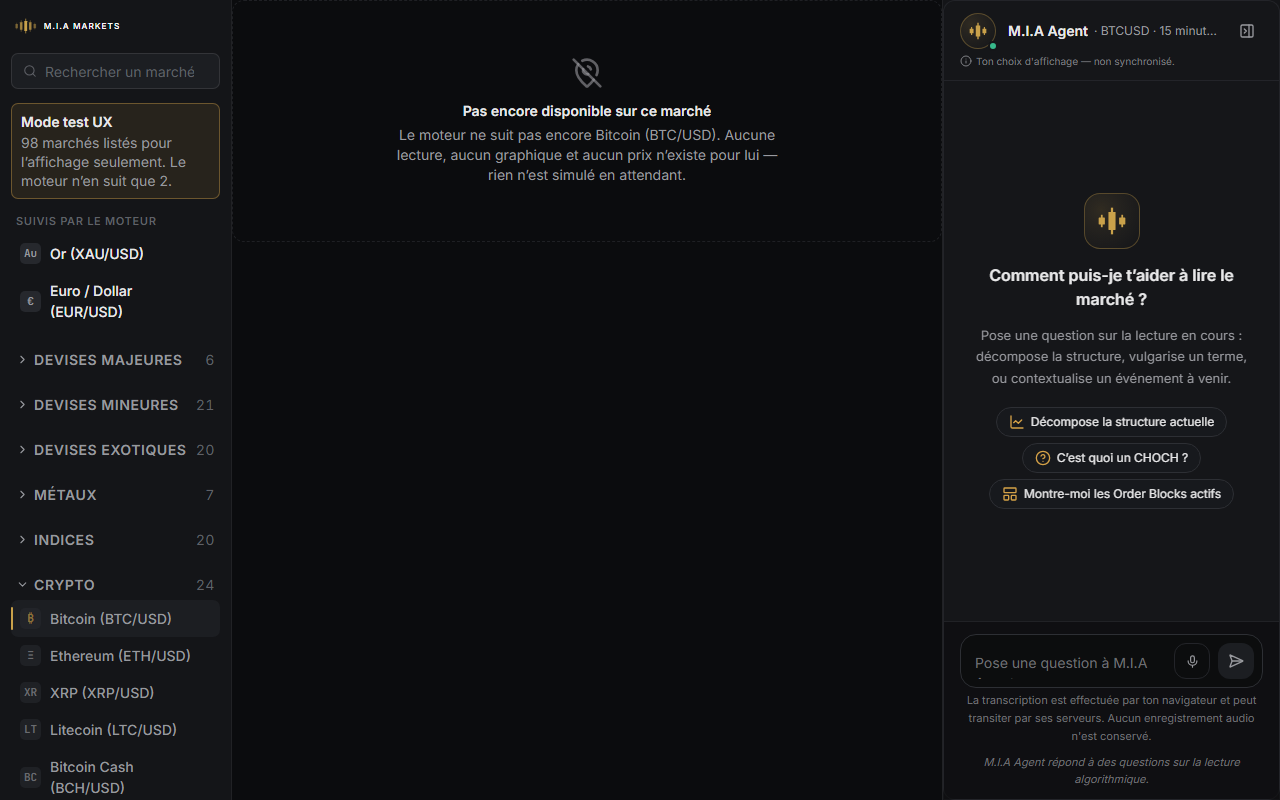
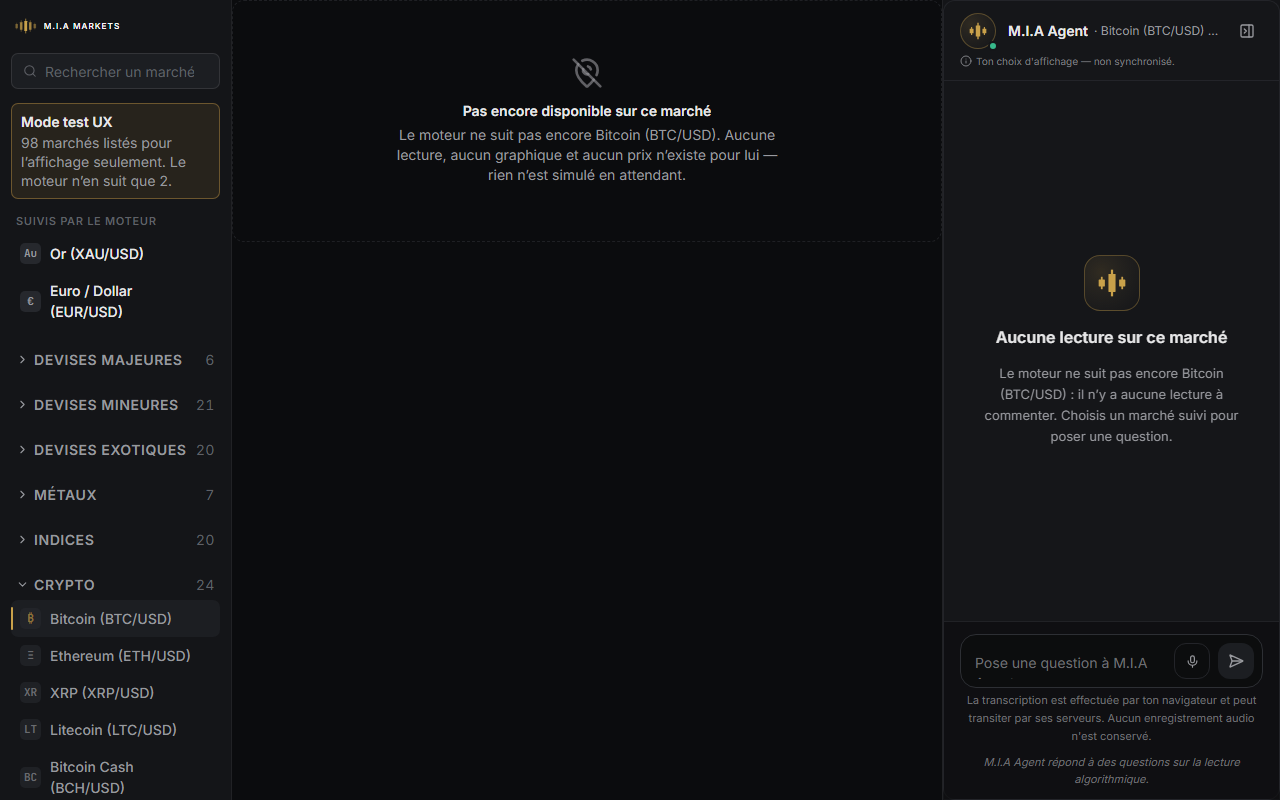
fix(mkt-1b): M.I.A n'offre plus d'analyser un marché sans donnée + garde CI réparé
Deux corrections de suivi de MKT-1, signalées au rapport et arbitrées « corrige ».

1) M.I.A proposait d'analyser un marché non couvert
La capture etat-vide-desktop.png montrait l'incohérence : la colonne centrale
disait honnêtement « Pas encore disponible sur ce marché » pendant que le panneau
M.I.A affichait « BTCUSD » et proposait « Décompose la structure actuelle » et
« Montre-moi les Order Blocks actifs ». M.I.A ne pouvait rien inventer (le
backend ignore ce marché), mais la suggestion invitait à poser une question sur
une donnée inexistante — la dishonnêteté que l'état vide existe pour éviter.

Corrigé dans AppChatSidebar UNIQUEMENT : MiaPanel n'est pas touché, donc aucun
conflit avec les missions MIA-* en cours. Réutilise le motif déjà en place
(starters={active ? STARTERS : []}) en traitant un marché du catalogue comme un
contexte non analysable : aucune question suggérée, et un accueil qui dit
pourquoi (« Aucune lecture sur ce marché »). Le marché est nommé par son libellé
humain jusque dans l'en-tête (« Bitcoin (BTC/USD) », plus le ticker brut).
6 tests, dont 2 garde-fous de portée : un marché SUIVI garde ses questions, et
l'absence de combo se comporte comme avant. 2 clés × 9 locales.

2) gen_markets.mjs --check réparé (bug PRÉ-EXISTANT)
Ce garde CI était inopérant sur tout checkout Windows : le script émet du LF, le
dépôt checkoute en CRLF (core.autocrlf=true), et la comparaison était faite octet
[…]

Changed region(s): [[0.75, 0.25, 0.9688, 0.625], [0.875, 0.0312, 0.9375, 0.0625]]

diff --git a/webapp/components/app/__tests__/mkt1b-mia-not-covered.test.tsx b/webapp/components/app/__tests__/mkt1b-mia-not-covered.test.tsx
@@ -1,0 +1,66 @@
+import { render, screen } from '@/components/test-utils';
+import { describe, expect, it, vi } from 'vitest';
+import { ChatProvider } from '@/components/chat/ChatProvider';
+
+/**
+ * MKT-1b — M.I.A must not offer to analyse a market that has no data.
+ *
+ * Found by eye on the MKT-1 Playwright capture: while the centre column
+ * honestly said « Pas encore disponible sur ce marché », the M.I.A panel still
+ * proposed « Décompose la structure actuelle » and « Montre-moi les Order Blocks
+ * actifs » for that same market. M.I.A could not have invented anything (the
+ * backend does not know the market), but the suggestions invited a question
+ * about data that does not exist — the dishonesty the empty state exists to
+ * avoid.
+ *
+ * The flag is stubbed BEFORE the dynamic imports so the real gate is exercised.
+ */
+vi.stubEnv('NEXT_PUBLIC_SHOW_MARKET_CATALOG_UX_TEST', '1');
+
+const { AppChatSidebar } = await import('@/components/app/AppChatSidebar');
+const { isCatalogOnly } = await import('@/lib/market-catalog');
+
+function renderSidebar(combo: { instrument: string; timeframe: string } | null) {
+  return render(
+    <ChatProvider>
+      <AppChatSidebar active={combo} />
+    </ChatProvider>,
+  );
+}
+
+describe('MKT-1b — M.I.A on an uncovered market', () => {
+  it('the fixture really is a catalogue-only market (guards the premise)', () => {
+    expect(isCatalogOnly('BTCUSD')).toBe(true);
+    expect(isCatalogOnly('XAUUSD')).toBe(false);
+  });
+
+  it('offers NO starter question — nothing to analyse, nothing to propose', () => {
+    renderSidebar({ instrument: 'BTCUSD', timeframe: 'M15' });
+    expect(screen.queryByText(/Décompose la structure actuelle/)).not.toBeInTheDocument();
+    expect(screen.queryByText(/Order Blocks actifs/)).not.toBeInTheDocument();
+    expect(screen.queryByText(/C'est quoi un CHOCH/)).not.toBeInTheDocument();
+  });
+
+  it('says why, naming the market by its human label', () => {
+    renderSidebar({ instrument: 'BTCUSD', timeframe: 'M15' });
+    expect(screen.getByText('Aucune lecture sur ce marché')).toBeInTheDocument();
+    expect(screen.getByText(/Le moteur ne suit pas encore Bitcoin \(BTC\/USD\)/)).toBeInTheDocument();
+  });
+
+  it('names the market in the header by its label, not a raw ticker', () => {
+    const { container } = renderSidebar({ instrument: 'BTCUSD', timeframe: 'M15' });
+    expect(container.textContent).toContain('Bitcoin (BTC/USD)');
+  });
+
+  it('a FOLLOWED market keeps its starter questions — the guard is narrow', () => {
+    renderSidebar({ instrument: 'XAUUSD', timeframe: 'M15' });
+    expect(screen.getByText(/Décompose la structure actuelle/)).toBeInTheDocument();
+    expect(screen.queryByText('Aucune lecture sur ce marché')).not.toBeInTheDocument();
+  });
+
+  it('no combo at all still behaves as before (idle welcome, no starters)', () => {
+    renderSidebar(null);
+    expect(screen.queryByText(/Décompose la structure actuelle/)).not.toBeInTheDocument();
+    expect(screen.queryByText('Aucune lecture sur ce marché')).not.toBeInTheDocument();
+  });
+});

diff --git a/webapp/components/app/AppChatSidebar.tsx b/webapp/components/app/AppChatSidebar.tsx
@@ -22,6 +22,7 @@ import {
   TooltipTrigger,
 } from '@/components/ui/tooltip';
 import { formatInstrument, formatTimeframe } from '@/lib/market-reading/formatters';
+import { catalogLabel, isCatalogOnly } from '@/lib/market-catalog';
 import type { Combo } from '@/lib/market-reading/store';
 
 /** Icons for the on-brand starter questions (text is localized in-component). */
@@ -63,8 +64,15 @@ export function AppChatSidebar({
     icon: s.icon,
   }));
 
+  // MKT-1 — a market from the UX-test catalogue has NO reading behind it, so
+  // M.I.A has nothing to comment on. Offering « Décompose la structure actuelle »
+  // there would invite a question about data that does not exist — the same
+  // dishonesty the empty state exists to avoid. Treated like "no combo picked":
+  // no starters, and a subtitle that says why. (Flag off → always false.)
+  const notCovered = isCatalogOnly(active?.instrument);
+
   const contextLabel = active
-    ? `· ${formatInstrument(active.instrument)} · ${formatTimeframe(active.timeframe)}`
+    ? `· ${notCovered ? catalogLabel(active.instrument) : formatInstrument(active.instrument)} · ${formatTimeframe(active.timeframe)}`
     : `· ${t('chat.pickComboPrompt')}`;
 
   const headerActions = (
@@ -142,11 +150,23 @@ export function AppChatSidebar({
       contextLabel={contextLabel}
       headerActions={headerActions}
       statusLine={statusLine}
-      welcomeTitle={active ? t('chat.welcomeTitleActive') : t('chat.welcomeTitleIdle')}
-      welcomeSubtitle={
-        active ? t('chat.welcomeSubtitleActive') : t('chat.welcomeSubtitleIdle')
+      welcomeTitle={
+        notCovered
+          ? t('chat.welcomeTitleNotCovered')
+          : active
+            ? t('chat.welcomeTitleActive')
+            : t('chat.welcomeTitleIdle')
       }
-      starters={active ? STARTERS : []}
+      welcomeSubtitle={
+        notCovered
+          ? t('chat.welcomeSubtitleNotCovered', {
+              market: catalogLabel(active?.instrument ?? ''),
+            })
+          : active
+            ? t('chat.welcomeSubtitleActive')
+            : t('chat.welcomeSubtitleIdle')
+      }
+      starters={active && !notCovered ? STARTERS : []}
       offlineNote={t('chat.offlineNote')}
       complianceLine={t('chat.complianceLine')}
     />

diff --git a/docs/audits/AUDIT-mkt-1-frontend-100.md b/docs/audits/AUDIT-mkt-1-frontend-100.md
@@ -234,6 +234,43 @@ cette fonctionnalité aurait été livrée cassée avec une suite unitaire verte
 
 ---
 
+## 7 ter. MKT-1b — les deux corrections de suivi (PR séparée)
+
+### M.I.A n'offre plus d'analyser un marché sans donnée
+
+La capture `etat-vide-desktop.png` a révélé une incohérence : pendant que la
+colonne centrale disait honnêtement « Pas encore disponible sur ce marché », le
+panneau M.I.A affichait « BTCUSD » et proposait *« Décompose la structure
+actuelle »* et *« Montre-moi les Order Blocks actifs »*. M.I.A ne pouvait rien
+inventer (le backend ignore ce marché), mais **la suggestion invitait à poser une
+question sur une donnée inexistante** — la dishonnêteté même que l'état vide
+existe pour éviter.
+
+Correctif dans `AppChatSidebar` **uniquement** — `MiaPanel` n'est pas touché,
+donc aucun conflit avec les missions MIA-* en cours. Il réutilise le motif déjà
+en place (`starters={active ? STARTERS : []}`) en traitant un marché du catalogue
+comme un contexte non analysable :
+
+> **Aucune lecture sur ce marché**
+> Le moteur ne suit pas encore **Bitcoin (BTC/USD)** : il n'y a aucune lecture à
+> commenter. Choisis un marché suivi pour poser une question.
+
+Le marché est nommé par son libellé humain jusque dans l'en-tête du panneau
+(« Bitcoin (BTC/USD) » au lieu du ticker brut). 6 tests verrouillent le
+comportement, dont deux garde-fous de portée : un marché **suivi** conserve ses
+questions, et l'absence de combo se comporte comme avant.
+
+### `gen_markets.mjs --check` réparé (bug pré-existant)
+
+Ce garde-fou CI était **inopérant sur tout checkout Windows** : le script émet du
+LF, le dépôt checkoute en CRLF (`core.autocrlf=true`), et la comparaison était
+faite octet à octet — il signalait « OUT OF DATE » sur un fichier parfaitement à
+jour. Signalé lors de la première passe et laissé en l'état (périmètre réel) ;
+corrigé ici sur demande. Une ligne, aucun fichier généré modifié. Les deux
+générateurs passent maintenant.
+
+---
+
 ## 8. Fichiers
 
 **Ajoutés**
@@ -274,20 +311,6 @@ webapp/lib/markets.ts               webapp/lib/market-reading/perimeter.ts
 ---
 
 ## 9. Ce qui reste ouvert
-
-0. **🔴 M.I.A propose d'analyser un marché qui n'a aucune donnée.** Visible sur
-   `mkt-1-shots/etat-vide-desktop.png` : pendant que la colonne centrale dit
-   honnêtement « Pas encore disponible sur ce marché », le panneau M.I.A à droite
-   affiche « BTCUSD · 15 minutes » et propose *« Décompose la structure actuelle »*
-   et *« Montre-moi les Order Blocks actifs »*. M.I.A ne peut rien inventer (le
-   backend ne connaît pas ce marché), mais **les suggestions invitent à demander
-   des données qui n'existent pas** — ce qui contredit l'esprit de la mission.
-   
-   **Non corrigé volontairement** : le panneau M.I.A appartient aux missions MIA-1
-   à MIA-5, et la PR #209 (MIA-5) est ouverte dessus en ce moment. Le correctif
-   tiendrait en quelques lignes (masquer les suggestions, ou les remplacer par une
-   ligne d'indisponibilité, quand `isCatalogOnly(active.instrument)`). **Votre
-   arbitrage** : ici, ou dans une mission M.I.A.
 
 1. **La liste des 100 marchés est la mienne** (§3). Si votre fichier de référence réapparaît, il doit la remplacer — c'est une édition du JSON + `node scripts/gen_market_catalog.mjs`, rien d'autre.
 2. **Séparation visuelle test/réel** (§5) : appliquée sur ma recommandation, pas sur votre arbitrage explicite.
